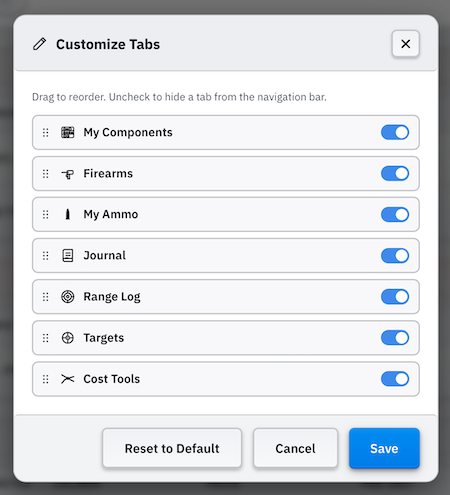
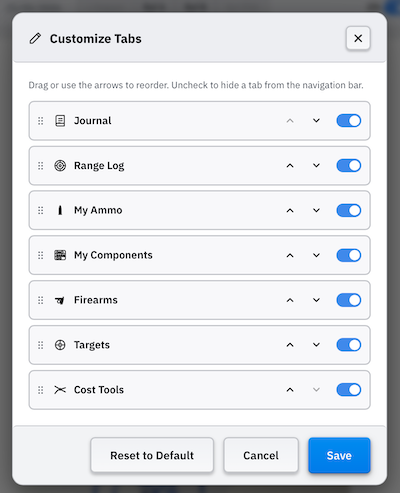
Updated images for version 2.12.1

diff --git a/README.md b/README.md
@@ -1,4 +1,4 @@
-# Reloading Tracker 2.11.0: User Guide
+# Reloading Tracker 2.12.1: User Guide
 
 Reloading Tracker is your complete bench-to-range companion. It starts as a production log: define your loads, record every pressing session with a unique lot number, and print a label for every box on your shelf. And it grows with you from there.
 
@@ -7,14 +7,14 @@ Manage a shared component inventory, work up new loads with a structured charge 
 If you also care about the economics, the app can do that too. Compare the cost of your reloads against factory ammunition, track your progress toward break-even after equipment investment, and get a side-by-side cost breakdown across any combination of loads. Totally optional though -- plenty of reloaders just want the log and the data.
 
 
-> **DOWNLOAD:** A desktop version is available from the releases page: [**latest version**](https://github.com/fmalpartida/reloading-cost-calculator/releases/tag/v2.11.0). All previous version are available [here](https://github.com/fmalpartida/reloading-cost-calculator/releases).
+> **DOWNLOAD:** A desktop version is available from the releases page: [**latest version**](https://github.com/fmalpartida/reloading-cost-calculator/releases/tag/v2.12.1). All previous version are available [here](https://github.com/fmalpartida/reloading-cost-calculator/releases).
 
 
 Want to try it out first?
 
 > **ONLINE VERSION:** A fully operational web deployment of the application is live at [**Try it out**](https://fmalpartida.github.io/reloading-cost-calculator). No install required - open it in your browser and start logging.
 
-> **YOUR DATA IS PORTABLE.** The on-line version, web version, and desktop versions share the same export/import format. Whatever you do on the web app can be exported and imported into the desktop version, and vice-versa, so you can move freely between the two without losing any of your loads, journal, range log, firearms, or targets. See [Import & Export](#12-import--export). *The on-line version does not store any information on the web, it uses your browser's local storage.*
+> **YOUR DATA IS PORTABLE.** The web and desktop versions share the same export/import format, so you can move freely between them without losing any of your loads, journal, range log, firearms, or targets. See [Import & Export](#12-import--export). *The web version stores nothing online; it all lives in your browser's local storage.*
 
 Enjoying Reloading Tracker? Every cup of coffee you send my way helps keep the powder flowing (new features, bug fixes, and late-night coding sessions all run on caffeine). If this app has saved you time at the bench (or saved you from a spreadsheet nightmare), consider buying me one!
 
@@ -101,7 +101,6 @@ Enjoying Reloading Tracker? Every cup of coffee you send my way helps keep the p
 
 Reloading Tracker follows a natural progression that mirrors the way reloading actually works. The first three steps are the core workflow, useful for any reloader regardless of whether you care about costs. Step 4 is for those who also want to track cost and break-even progress.
 
-<!-- IMAGE MAY NEED UPDATING: navigation bar now includes the Firearms tab between My Components and Journal -->
 ![Reloading Tracker: main application and navigation tabs](./images/header-tabs.png)
 
 **Step 1: Define your loads**
@@ -111,7 +110,7 @@ Before you can log sessions, the application needs to know what you are reloadin
 - **Direct entry in My Ammo.** Open the Editor tab and fill in the load details. This is the fastest way to get started.
 - **Build a component library first (recommended).** Go to **My Components** and add your powders, primers, bullets, and brass. Then, when you create a load in My Ammo, select each component from the inventory instead of typing values by hand. Any future price change (a new jug of powder, a bulk primer buy) only needs to be updated in one place, and every load that uses that component recalculates automatically.
 
-> **If you plan to use the cost features**, accuracy starts with the prices you enter. Use the actual prices you paid, including shipping if it meaningfully affects the per-unit cost. Update component prices when you buy a new batch. The closer your entries are to real-world costs, the more the numbers you see will reflect your true reloading economics rather than a rough estimate.
+> **If you plan to use the cost features**, accuracy starts with the prices you enter. Use what you actually paid, including shipping if it meaningfully affects the per-unit cost, and update it whenever you buy a new batch, so the numbers reflect your real reloading economics rather than a rough estimate.
 
 If you use Cost Analysis or Cost Comparison, also add at least one **factory ammo** entry (with its box price, taxes, and any fixed fees) so the comparison and break-even analysis have a meaningful baseline to work against.
 
@@ -123,7 +122,7 @@ If you are developing a new load from scratch, set its status to **In Developmen
 
 Every time you sit down at the press, open the **Journal** tab and add an entry: select the load, enter the date and the number of rounds you produced. The application assigns a unique, incrementing lot number automatically.
 
-This is where the application starts working for you over time. Each session builds a complete production history: what you made, when you made it, and how much. That record is valuable on its own as a traceable log of every batch you have ever pressed, and it also feeds directly into Cost Analysis if you want to track your progress toward break-even.
+This is where the application starts working for you over time: each entry builds a production history of what you made, when, and how much. That record is valuable on its own, and it also feeds directly into Cost Analysis if you want to track your progress toward break-even.
 
 **Step 3: Print lot labels**
 
@@ -181,7 +180,7 @@ There are also built-in **Tour**, **About**, and **Settings** controls in the to
 
 A pencil-icon **Customize Tabs** button sits to the right of the tabs. Click it to open a dialog where you can:
 
-- **Reorder tabs** by dragging them into any position using the grip handle
+- **Reorder tabs** by dragging them into any position using the grip handle, or with the up and down arrows on each row
 - **Hide tabs** you do not use by unchecking them - at least one tab must always stay visible
 - **Reset to Default** to restore the original order and visibility at any time
 
@@ -370,7 +369,7 @@ Rows with data but not yet promoted are highlighted with a subtle tint. The prom
 
 **Logging entries from the workup panel**
 
-All plannable steps are checked by default. Uncheck any step you do not want to press in this session, then click **Log N Entries** in the footer. The application creates one Journal entry per checked charge, all dated today, using the configured rounds per step. A brief confirmation message appears before the panel closes.
+All plannable steps are checked by default. Uncheck any step you do not want to press in this session, then click **Log N Entries** in the footer. The application creates one Journal entry per checked charge, all dated today, using the configured rounds per step and the current lot numbers of the load's linked components. A brief confirmation message appears before the panel closes.
 
 > You can also add a **one-off charge** that is outside the configured ladder: type the charge weight in the *Add charge* field below the table and click **Add**. The row appears in the table, checked and ready to include in the next batch log, without immediately writing a journal entry.
 
@@ -486,7 +485,7 @@ Fields aimed at precision reloading, where case-to-case consistency matters as m
 - **Annealer Settings** - free text for the specifics of your process, e.g. *PID 4, 5.5s dwell*.
 
 **Notes**  
-Optional free-text field for lot numbers, suppliers, or any other reference.
+Optional free-text field for suppliers or any other reference.
 
 **Stock on hand** *(optional)*  
 The current quantity you have in stock. The unit depends on the component type:
@@ -498,6 +497,9 @@ Leave this field blank if you do not want to track stock for this component. Onl
 **Alert below** *(optional)*  
 A low-stock threshold in the same unit as **Stock on hand**. When the quantity on hand falls at or below this value, the component card shows a **Low** badge as a visual warning. This is a display indicator only; it does not block any operation.
 
+**Lot #** *(optional)*  
+The manufacturer's lot code for the batch you have on hand, e.g. *VG-2291*. New Journal entries record it automatically (see [5.1](#51-logging-a-session)), so update it when you open a new jug of powder or box of primers.
+
 Click **Save** to add the component. The card appears immediately in its group.
 
 ![Screenshot: Add/Edit component form panel](./images/inventory-add-form.png)
@@ -506,6 +508,7 @@ Each component card shows:
 - Component name and type icon
 - **Price**: the effective per-unit cost (e.g. *$22.50/lb*, or *$0.16 ea* for a primer). The raw price and quantity you entered stay editable as two separate fields in the form; only the derived per-unit figure is shown in the card or table to keep the list compact.
 - **Stock**: current quantity on hand, shown only when a stock quantity has been entered. Powder stock is shown to four decimal places; all other types show a whole number. A **Low** badge appears inline when the quantity is at or below the configured threshold.
+- **Lot**: the lot number on hand, shown only when one has been entered.
 - Brass **Reloads** count (brass cards only)
 - Bullet **caliber**, **diameter**, **weight**, and **OAL** (bullets only)
 - Notes (if any)
@@ -526,7 +529,7 @@ Each component card has three action buttons:
 
 ![Screenshot: Inventory card action buttons](./images/inventory-card-actions.png)
 
-In **Table view**, the **Stock** column shows the current quantity on hand for each component, formatted with a unit suffix (*primers*, *rounds*, *cases*, *lb*, or *kg*). Components with no stock quantity set show a dash (-). A **Low** badge appears in the same cell when stock is at or below the threshold.
+In **Table view**, the **Stock** column shows the current quantity on hand for each component, formatted with a unit suffix (*primers*, *rounds*, *cases*, *lb*, or *kg*). Components with no stock quantity set show a dash (-). A **Low** badge appears in the same cell when stock is at or below the threshold. The **Lot #** column next to it shows each component's lot number, or a dash when none is set.
 
 For brass, an **Info** column shows the same Consistency & Fit / Annealing icon buttons as the card view, keeping the table compact instead of adding a separate column per field.
 
@@ -538,13 +541,13 @@ In **Table view**, the dropdown is hidden - instead, click the **Name**, **Price
 
 **Photo thumbnails**
 
-Components with a photo (see [3.1](#31-adding-a-component)) show it as a thumbnail on the card, in place of the generic type icon, or in the table's Photo column. Hover (or focus) the thumbnail to preview the component's name, type, price, stock, and key specs in a popup.
+Components with a photo (see [3.1](#31-adding-a-component)) show it as a thumbnail on the card, in place of the generic type icon, or in the table's Photo column. Hover (or focus) the thumbnail to preview the component's name, type, price, stock, lot number, and key specs in a popup.
 
 ![Screenshot: My Components card and table showing a photo thumbnail and hover popup](./images/inventory-photo-popup.png)
 
 **Cash-in-hand totals**
 
-Each category header (Powders, Primers, Bullets, Brass) shows that category's total stock value — quantity on hand × price — next to its item count. A grand total across all categories appears at the top of the page next to the filter tags. Both use your configured currency symbol and update automatically as stock levels or prices change.
+Each category header (Powders, Primers, Bullets, Brass) shows that category's total stock value (quantity on hand × price) next to its item count. A grand total across all categories appears at the top of the page next to the filter tags. Both use your configured currency symbol and update automatically as stock levels or prices change.
 
 ### 3.3 Linking Inventory to Loads
 
@@ -562,7 +565,7 @@ When you edit a component in My Components (e.g. update a powder price after buy
 
 > **Tracking cost changes across component batches.** As of 2.11.0, this is handled for you automatically: every journal entry locks in its cost per round the moment you log it, using the prices in effect at that instant (see [5.2](#52-managing-journal-entries)). A later price change in My Components no longer rewrites what past lots are recorded as having cost.
 >
-> Duplicating the load and linking the copy to a separate inventory item is still a reasonable approach if you'd rather keep two distinct recipes side by side (e.g. to compare batches directly in Cost Analysis), but it's no longer necessary just to preserve historical cost accuracy — the per-entry cost lock handles that for a single load across all its batches.
+> Duplicating the load and linking the copy to a separate inventory item is still a reasonable approach if you'd rather keep two distinct recipes side by side (e.g. to compare batches directly in Cost Analysis), but it's no longer necessary just to preserve historical cost accuracy: the per-entry cost lock handles that for a single load across all its batches.
 
 **Inventory badge in My Ammo:**  
 In the expanded card view under My Ammo, any component that originates from the inventory shows a small inventory icon next to its name, so you can tell at a glance which values are managed centrally.
@@ -627,7 +630,7 @@ Each firearm profile (in both card and table view) has two action buttons:
 
 | Button | Action |
 |--------|--------|
-| ✏ Edit | Opens the profile in the form dialog for editing. All fields can be changed. |
+| ✏ Edit | Opens the profile in the form dialog for editing. All fields can be changed. If you rename the firearm, its past Range Log sessions follow the new name, so its history stays together. |
 | 🗑 Delete | Permanently removes the profile from the registry. Existing Range Log sessions that referenced this firearm are not affected; the recorded firearm name is preserved in those sessions. |
 
 A confirmation dialog appears before deletion to prevent accidental removal.
@@ -689,9 +692,12 @@ Click **Log Entry** at the top right of the entries card to open the session dia
 | **Charge override** | Optional. Enter a value only if this batch was loaded at a different charge than the recipe default. Overridden values are highlighted in the journal row. |
 | **COAL override** | Optional. Per-lot cartridge overall length if it differs from the recipe. |
 | **Brass override** | Optional. Specify which brass was used if it differs from the recipe default. |
-| **Notes** | Optional; use for a powder lot number, seating depth, or any other session reference. |
+| **Powder / Primer / Bullet / Brass lot** | Optional. The manufacturer lot codes of the components you used. For a new entry these fill in from the lot numbers of the load's linked components in My Components (see [3.1](#31-adding-a-component)); change them if you used a different lot. Picking a different brass fills in that brass's lot. |
+| **Notes** | Optional; use for seating depth or any other session reference. |
 
 The next available lot number is shown at the top of the dialog and is assigned automatically when you save. Click **Save Entry** to log the session. The new entry appears at the top of the list and the lot counter advances.
+
+Component lots are only filled in automatically for new entries. Entries logged before this feature existed stay blank, since today's lots may not be the ones you used back then; edit an entry to add them by hand if you know them.
 
 ![Screenshot: journal edit dialog showing the charge, COAL, and brass override fields](./images/journal-editor.png)
 
@@ -707,7 +713,7 @@ Each entry row has action buttons on the right:
 |--------|--------|
 | ☆ Star | Marks the entry as a reference lot (starred entries show a coloured accent) |
 | ✏ Edit | Opens the entry for editing; the lot number is fixed and cannot be changed |
-| ⧉ Duplicate | Creates a copy of the entry with the next available lot number (useful for pressing additional batches of the same load at the same settings) |
+| ⧉ Duplicate | Creates a copy of the entry with the next available lot number and the same component lots (useful for pressing additional batches of the same load at the same settings) |
 | 🖨 Print | Opens the label print dialog pre-filled with the lot number and quantity |
 | 📦 Archive | Moves the entry to the archive so it no longer appears in the main list. Archived entries are preserved in full and can be restored at any time. |
 | 🗑 Delete | Permanently removes the entry |
@@ -726,19 +732,22 @@ When a reload entry is linked to components in My Components that have a **Stock
 
 After a successful deduction, the button changes to a **✓ Stock** badge. Click the badge to **return** the stock (undo the deduction). This is useful if you made a mistake or need to adjust quantities before re-deducting.
 
-If you **edit** a journal entry that already had stock deducted and change a quantity-affecting field (round count, charge override, or brass override), the application automatically returns the old deduction and re-applies the new one so the inventory stays accurate — and re-locks the cost as described below.
+If you **edit** a journal entry that already had stock deducted and change a quantity-affecting field (round count, charge override, or brass override), the application automatically returns the old deduction and re-applies the new one so the inventory stays accurate, and re-locks the cost as described below.
 
 Stock deduction is not available for archived entries.
 
 **Cost is locked in when you log an entry**
 
-Component prices change over time — the price you paid for powder last year isn't what it costs today. To keep your historical records accurate, the cost per round for a lot is **frozen the moment you log it** (or the moment you next edit its load, charge override, or brass override), using the component prices in effect at that instant. Editing a component's price in My Components afterward will not change what this lot is recorded as having cost — this happens automatically for every entry, whether or not you ever use Deduct from Stock. The Journal's **Cost Summary** panel always shows this locked-in figure. Hover over the **✓ Stock** badge on a lot to see the exact cost per round that was locked in for it.
+Component prices change over time: the price you paid for powder last year isn't what it costs today. To keep your historical records accurate, the cost per round for a lot is **frozen the moment you log it** (or the moment you next edit its load, charge override, or brass override), using the component prices in effect at that instant. Editing a component's price in My Components afterward will not change what this lot is recorded as having cost. This happens automatically for every entry, whether or not you ever use Deduct from Stock. The Journal's **Cost Summary** panel always shows this locked-in figure. Hover over the **✓ Stock** badge on a lot to see the exact cost per round that was locked in for it.
 
-Editing an entry's quantity alone doesn't change its per-round rate, but changing the load, powder charge override, or brass override recalculates and re-locks the rate at that moment — reflecting whatever prices are current when you make the edit.
+Editing an entry's quantity alone doesn't change its per-round rate, but changing the load, powder charge override, or brass override recalculates and re-locks the rate at that moment, reflecting whatever prices are current when you make the edit.
 
 This only affects how past lots are *recorded*. The **Cost Analysis (Break-Even)** tool in section 8 is intentionally different. It always projects using today's prices, since it's answering "at current costs, how many rounds until my equipment pays for itself," not "what did I actually spend."
 
-If you were using the app before this feature existed, your existing entries get locked in automatically the first time you open the Journal tab — using whatever prices are current at that moment, since the app has no record of what you actually paid back when those lots were originally pressed.
+If you were using the app before this feature existed, your existing entries get locked in automatically the first time you open the Journal tab, using whatever prices are current at that moment, since the app has no record of what you actually paid back when those lots were originally pressed.
+
+**Component lots**
+Entries with component lots recorded show a tag icon in the Notes column. Hover over it to see the powder, primer, bullet, and brass lots used for that batch.
 
 ![Screenshot: journal entry row showing all action buttons (star, edit, duplicate, print, archive, delete) and the Remaining Rounds column](./images/journal-entry.png)
 
@@ -748,7 +757,10 @@ The **Remaining** column shows how many rounds from each lot have not yet been f
 **Archiving and restoring entries**
 Click the **📦 Archive** button to move a lot out of the active list without deleting it. Archived entries remain part of your history and are still counted in the Journal statistics panel. To see archived entries, click the **"N archived"** link that appears in the journal header when any entries are archived. To restore an entry to the active list, expand the archived view and click the **Restore** button on the relevant row.
 
-Use the **Search** box at the top of the page to filter entries by lot number, date, load name, caliber, brass name, or notes.
+Use the **Search** box at the top of the page to filter entries by lot number, date, load name, caliber, brass name, notes, or component lot. Searching a primer lot code, for example, lists every batch pressed with that lot.
+
+**On phones and tablets**
+On narrow screens the table switches to a stacked layout: each entry shows its lot, date, load, quantity, remaining rounds, and notes in a column, with the action buttons alongside. Charge, COAL/CBTO, brass, and fired count are hidden to save space; open the entry to see them.
 
 ### 5.3 Printing a Lot Label
 
@@ -817,7 +829,13 @@ For every lot, regardless of mode, you can also record per-lot performance data:
 | **SD** | Standard deviation (fps) |
 | **Group** | Group size with unit (in / cm / MOA / MIL) |
 | **Shots** | Number of shots in the group |
+| **Cold bore** | Cold bore rounds fired |
+| **Fouling** | Fouling shots fired before recording |
+| **Shot string** | Optional. Each shot's velocity from your chronograph, separated by commas or spaces, e.g. *2810, 2815, 2798*. See below. |
 | **Notes** | Per-lot observations |
+
+**Entering a shot string**
+If you paste in the shot string from your chronograph, the app works out **Avg fps**, **ES**, and **SD** for you and locks those three fields so they always match the shots. SD is the sample standard deviation, the same figure chronographs report. Clear the shot string to type the numbers in by hand instead. The raw shots are saved with the session and shown in its expanded view, so you can always go back to them.
 
 Use the **⧉** duplicate button on any lot row to quickly copy it when firing multiple similar lots in the same outing. At least one lot must have an ammo selection before the session can be saved.
 
@@ -833,7 +851,6 @@ Sessions are displayed as rows in a list, most recent first. Click any row to **
 
 **Best group marking**: whichever lot holds the smallest group size for a given firearm is marked with a small gold bullseye icon directly on its lot badge - in both the collapsed row and the expanded detail view. This updates live as you log new sessions, so the marker always points to that firearm's current best.
 
-<!-- IMAGE MAY NEED UPDATING: best-group-per-firearm bullseye icon now appears on lot badges -->
 ![Screenshot: Range Log, expanded session row showing individual lot entries](./images/range-log-expanded.png)
 
 Each session row has action buttons on the right:
@@ -919,7 +936,7 @@ Target records in the list show:
 - The target name and date
 - Shot count and best group size
 
-Click the **☆ / ★** star button on any list item to mark the target as a reference. Click the **✕** button to delete it (a confirmation dialog appears first).
+Click the **☆ / ★** star button on any list item to mark the target as a reference. Click the 🗑 **Delete** button to delete it (a confirmation dialog appears first).
 
 #### 7.1.2 Uploading and Calibrating the Image
 
@@ -944,6 +961,8 @@ The application uses the pixel distance between the two points divided by the en
 
 **Configuration panel fields**
 
+The panel groups its fields under four headings: **Units** (measurement system, angular unit, click value), **Setup** (image, calibration reference, bullet diameter, shot distance), **Range session** (the linked session, its lot, and CBTO/COAL), and **Notes**. The Notes box stays one line tall until you type in it.
+
 | Field | Description |
 |-------|-------------|
 | **Calibration reference** | The two reference points and their real-world distance |
@@ -953,7 +972,8 @@ The application uses the pixel distance between the two points divided by the en
 | **Angular unit** | MOA or MIL for angular statistics |
 | **Click value** | Your scope's adjustment per click in the selected angular unit, used to compute how many clicks of correction are needed to move point of impact to point of aim |
 | **Notes** | Optional free-text notes for this target |
-| **Session** | Optional link to a range session (see [Section 7.1.7](#717-linking-to-a-range-session)) |
+| **Linked session** | Optional link to a range session (see [Section 7.1.7](#717-linking-to-a-range-session)) |
+| **CBTO / COAL** | Read-only. Shown once the target is linked to a reload lot: the lot's CBTO, or its COAL when no CBTO is recorded, so you can see the seating depth behind the group without leaving the tab. Not shown for factory ammo. |
 
 ![Screenshot: Target Analysis configuration sidebar showing calibration, bullet diameter, shot distance, and measurement system fields](./images/targets-config-sidebar.png)
 
@@ -982,7 +1002,7 @@ If no point of aim is set, the application uses the centroid of all shots as the
 | **Calibrate** | Click two reference points to set the calibration baseline |
 | **Pan / Zoom** | Drag to pan the canvas; use the zoom buttons or scroll wheel to zoom in and out |
 
-The toolbar also has **Zoom In**, **Zoom Out**, and **Fit** buttons to control the canvas view, and a **Print** button to print the annotated target (see [Section 7.1.8](#718-printing-a-target)).
+The toolbar also has **Zoom In**, **Zoom Out**, and **Fit** buttons to control the canvas view, and a **Print** button to print the annotated target (see [Section 7.1.8](#718-printing-a-target)). The buttons are grouped: the mode buttons on one shaded band, the view buttons (pan, zoom, crop, rotate) on another, and Export, Print, and Save after a divider on the right.
 
 #### 7.1.4 Statistics Panel
 
@@ -1070,14 +1090,18 @@ When a target has **two or more groups**, a set of view selector tabs appears ab
 
 The **Aggregate** view is particularly useful when comparing multiple loads fired at the same aiming point: it removes the POI offset between loads and focuses entirely on the consistency and group size of each load independently.
 
+**Group comparison table**
+Above the tabs, a small table puts every group side by side: shots, extreme spread, mean radius, and windage and elevation offset from the point of aim. It's the quickest way to compare several charges fired on the same paper without clicking through each tab. Click a row to open that group. Groups need at least two shots to appear.
+
 ![Screenshot: Targets view selector tabs showing All, group tabs, and Aggregate; Aggregate tab active with re-centred impact overlay on the canvas](./images/targets-aggregate-view.png)
 
 #### 7.1.7 Linking to a Range Session
 
-In the **Configuration** sidebar, the **Session** field connects this target record to a specific range session in the Range Log. Click the field to open a searchable dropdown listing all your recorded sessions. You can search by date, firearm name, distance, or lot number.
+In the **Configuration** sidebar, the **Linked session** field (under **Range session**) connects this target record to a specific range session in the Range Log. Click the field to open a searchable dropdown listing all your recorded sessions. You can search by date, firearm name, distance, or lot number.
 
 Once linked:
 - A **navigate** button (arrow icon) appears next to the session selector. Click it to jump directly to that session in the Range Log tab.
+- The linked lot's **CBTO** (or **COAL** when no CBTO is recorded) appears below the session, and on the printed target.
 - In the Range Log, a **target icon** (scope) appears on the linked session's action buttons. Click it to jump back to this target in the Targets tab.
 - When you **print** the linked range session, the printed output automatically includes the annotated target image and key statistics; no extra steps needed (see [Section 7.1.8](#718-printing-a-target) and [Section 6.2](#62-managing-range-sessions)).
 
@@ -1091,6 +1115,7 @@ The printed sheet includes:
 - The annotated target image with impact circles, shot order numbers, and overlay graphics: a dashed **ES line** connecting the two most extreme shots, a solid **mean radius circle**, and a dashed **CEP50 circle** (when ≥ 5 shots are present)
 - The target name and view label (group name or "All Groups")
 - Key statistics: shot count, extreme spread, mean radius, POI offset, and CEP50
+- The linked lot's CBTO (or COAL), when the target is linked to a reload lot
 
 When multiple groups are present, the view that is currently active (All, a specific group, or Aggregate) determines what is printed.
 
@@ -1112,7 +1137,9 @@ Two things can be changed from this view:
 - **Included Groups** - a checklist of every group across the aggregated targets. Uncheck a group to exclude it from the combined view and statistics; at least one group must stay included. This choice is saved with the aggregate.
 - **Imperial / Metric** - the same toggle used elsewhere in the app; also saved with the aggregate.
 
-Everything else is read-only. Renaming the aggregate and deleting it (✕ on its list row) are the only other available actions - the underlying targets and their data are never affected.
+Everything else is read-only. Renaming the aggregate and deleting it (🗑 on its list row) are the only other available actions - the underlying targets and their data are never affected.
+
+The group comparison table (see [7.1.6](#716-aggregate-view)) appears here too, listing each group's shots, extreme spread, and mean radius. Windage and elevation are left out, since the groups are re-centred.
 
 **Stays in sync automatically**
 An aggregate does not copy any data from its source targets; it always reads their current state. If you later add an impact, move a shot, or adjust a group on any of the aggregated targets, the aggregate reflects the change immediately the next time you view it. If a source target is deleted, the aggregate simply drops its groups and continues showing the rest.
@@ -1239,7 +1266,7 @@ Each annotation has a **mode toggle**:
 
 | Mode | Fields |
 |------|--------|
-| **Handload** | **Journal Lot** (searchable dropdown from your journal entries), Firearm, Shots, Distance, Notes |
+| **Handload** | **Journal Lot** (searchable dropdown from your journal entries, newest first), Firearm, Shots, Distance, Notes |
 | **Factory** | Cartridge name, Lot #, Firearm, Shots, Distance, Notes |
 
 Firearm and Shots sit side by side in one row, directly above the matching Distance/Unit row, so the two line up.
@@ -1435,7 +1462,6 @@ In **Settings**, the **Auto-backup on import** toggle controls whether the appli
 **Backward compatibility**
 `.json` files exported by earlier versions of the application can still be imported. Target photos are not included in `.json` exports (they were not supported in that format); all other data is restored in full.
 
-<!-- IMAGE MAY NEED UPDATING: navigation bar now includes the Firearms tab between My Components and Journal -->
 ![Screenshot: Export and Import buttons in the navigation bar](./images/header-tabs.png)
 
 ---
@@ -1461,9 +1487,11 @@ In **Settings**, the **Auto-backup on import** toggle controls whether the appli
 - **Powder quantity field.** When entering a powder in the inventory, set the quantity to match how the powder is sold (1 lb, 4 lb, 8 lb, etc.). The app calculates the per-lb rate automatically and uses it when costing a load.
 - **Unlinking a component.** Manually editing any field in a linked component section (name, price, quantity) automatically breaks the inventory link. The load keeps the values you typed but is no longer updated when the inventory item changes. Use the **×** on the badge to unlink without changing any values.
 - **Deleting an inventory item** does not delete any loads that used it. Those loads retain the component values they had at the time the link was broken.
-- **Journal lot numbers never repeat.** Deleting an entry does not reuse its lot number. The next new entry starts from the **Starting lot #** you configured in the Journal header, then increments past any already-used numbers until it finds the next free slot. This means you can lower the starting lot number to fill in historical batches without creating duplicates, and existing entries are never displaced.
+- **Journal lot numbers never repeat.** Deleting an entry does not reuse its lot number. The next new entry starts from the **Starting lot #** you configured in the Journal header, then increments past any already-used numbers until it finds the next free slot, so you can lower it to backfill historical batches without ever creating a duplicate or displacing an existing entry.
 - **Journal baseline for existing reloaders.** If you were reloading before you started using the journal, enter your historical round count as the manual baseline in Cost Analysis Rounds mode. The journal will add to it going forward, keeping your break-even progress accurate.
 - **Label printing from the journal.** The quickest way to print a box label is directly from the Journal; the lot number and quantity are already filled in. You only need to confirm and print.
+- **Keep component lot numbers current.** Update a component's **Lot #** in My Components whenever you open a new jug or box. Every Journal entry after that records the new lot, so an unexplained change in SD or point of impact can be traced back to a lot change.
+- **Paste the whole shot string.** Entering each shot's velocity instead of just the average keeps the raw data, and the app calculates the average, ES, and SD for you.
 - **The bench-to-range loop.** Use the Journal to record what you pressed, then use the Range Log to record how each lot performed at the range. The two tabs together give you a complete picture: production history in the Journal, field performance in the Range Log.
 - **Multiple lots in one range session.** A single range session can include several lots, for example if you ran three different powder charges side by side. Add one lot entry per charge weight so each gets its own round count and notes.
 - **Range Log notes for load development.** Use the per-lot notes field in the Range Log to record group sizes, point of impact shifts, felt recoil, or function issues. Over time this builds a development log you can cross-reference when adjusting a recipe.
@@ -1477,7 +1505,8 @@ In **Settings**, the **Auto-backup on import** toggle controls whether the appli
 - **Firearms Registry data is included in export files.** All firearm profiles are exported with your library and restored on import, so your full registry travels with your data.
 - **Add firearm profiles before logging range sessions.** Populating the Firearms Registry before your first range session means the firearm selector in the Range Log form will already have your guns listed, saving you from typing them out each time.
 - **Caliber on a firearm profile enables grouping and filtering.** Profiles without a caliber still appear in the registry and the Range Log dropdown, but they fall into an Uncategorized group and do not generate a caliber filter chip. Set the caliber if you want to use the chip filter to narrow down multi-gun sessions by cartridge family.
-- **Deleting a firearm profile does not affect past sessions.** Range Log entries record the firearm name as a string at the time of logging. Removing a profile from the registry does not alter any historical session records; the name is preserved exactly as it was when you logged it.
+- **Deleting a firearm profile does not affect past sessions.** Range Log sessions keep the firearm's name as well as a link to its profile. Removing a profile from the registry does not alter any historical session records; the name is preserved exactly as it was.
+- **Renaming a firearm keeps its history together.** Past sessions follow the new name, so the rifle's stats and best groups stay in one place. Sessions logged before profiles existed are matched to a profile by name.
 - **Twist rate is useful during load development.** Enter the twist rate on your rifle profiles (e.g. *1:10*) so you have it on hand when selecting bullet weights during load development; heavier, longer bullets need faster twist rates to stabilise, and having the spec in the registry saves you from looking it up every time.
 - **Charge workup and the journal are connected.** When you log entries from the Charge Workup panel, they appear in the Journal as normal lot entries. When you later log those lots in the Range Log (select them **From Journal**), the velocity and group data flows back into the workup chart automatically, no extra steps needed.
 - **Link range sessions to workup lots using "From Journal" mode.** When adding a lot in the Range Log, select **From Journal** and pick the lot number that the Charge Workup panel created. This is what connects your range data to the workup chart; if you use the Reload or manual mode instead, the lot number may not match and the data will not appear on the chart.
@@ -1490,7 +1519,7 @@ In **Settings**, the **Auto-backup on import** toggle controls whether the appli
 - **Use a known reference on the target.** A printed grid square, the bullseye ring diameter, or a target's stated scoring ring size all work as calibration references. Write the distance in millimetres or inches before the session so you have it ready when you upload the photo.
 - **Bullet diameter refines your statistics.** Enter your bullet's diameter in the Configuration panel. The app uses it to measure Extreme Spread and the Smallest Enclosing Circle from the outer edges of the holes (as if the holes were touching), the same way groups are conventionally measured with a calliper. Without bullet diameter, all measurements are centre-to-centre.
 - **Groups let you compare loads on the same target.** If you fired two charge weights or two different loads at the same aiming point, assign their impacts to separate groups. Each group gets its own colour, its own statistics, and contributes to the aggregate calculation.
-- **The aggregate view removes POI differences between groups.** When you have two or more groups, the Aggregate view re-centres each group's shots onto the origin before computing statistics. This removes the point-of-impact offset between loads and gives you a pure measure of each load's internal dispersion; useful for comparing group size consistency independently of where each load prints on the target.
+- **The aggregate view removes POI differences between groups.** When you have two or more groups, the Aggregate view re-centres each group's shots onto the origin before computing statistics. This removes the point-of-impact offset between loads, giving you a pure measure of each load's internal dispersion, useful for comparing group consistency regardless of where each load prints on the target.
 - **Link targets to sessions for bidirectional navigation.** In the target's Configuration panel, select the range session this target came from. A navigation button then appears in both the Targets tab (go to session) and in the Range Log session row (go to target), so you can jump between the two records with one click.
 - **Printed session sheets include the target.** When you print a range session that has a linked target, the target image with annotated shots, ES line, mean-radius circle, and CEP50 circle is automatically included at the bottom of the printed sheet along with key statistics, no separate step needed.
 - **Target records are included in export files.** All target photos, calibration data, impact coordinates, groups, and session links are exported with your library and restored on import.
@@ -1500,5 +1529,5 @@ In **Settings**, the **Auto-backup on import** toggle controls whether the appli
 - **Apply to all for fast annotation.** Fill in Target 1's annotation fields completely, then click **Apply to all** to copy them to every slot in one click. Only use Copy prev when adjacent targets differ by a single field (e.g. different lot numbers or charges).
 - **Landscape orientation fits more targets per sheet.** For small pistol targets or load workup grids, switching to landscape and increasing the columns count can fit significantly more aiming points on a single page.
 - **Match ring colours to your shooting conditions.** Use high-contrast colour schemes (e.g., black rings on a white target) for bright outdoor conditions and lighter rings with a black background for lower-light indoor ranges.
-- **Best group badge marks the top performer.** In the Target Analysis sub-tab, when two or more groups are present, the group with the smallest Extreme Spread is marked with a ★ badge in the groups list. This gives you an instant visual indicator of which load performed best without reading through each group's statistics individually.
-- **The target list shows aggregated group size for multi-group targets.** When a target has two or more groups, the shot count and group size shown in the target list uses the aggregate calculation (centering each group on the origin and computing ES across all re-centred shots) rather than treating all impacts as one group. This gives you a meaningful group-size summary for load-comparison targets at a glance.
+- **Best group badge marks the top performer.** In the Target Analysis sub-tab, when two or more groups are present, the group with the smallest Extreme Spread is marked with a ★ badge in the groups list, so you can spot the best-performing load without reading through every group's statistics.
+- **The target list shows aggregated group size for multi-group targets.** When a target has two or more groups, the shot count and group size shown in the target list uses the aggregate calculation (centering each group on the origin and computing ES across all re-centred shots) rather than treating all impacts as one group, giving you a meaningful group-size summary for load-comparison targets at a glance.
